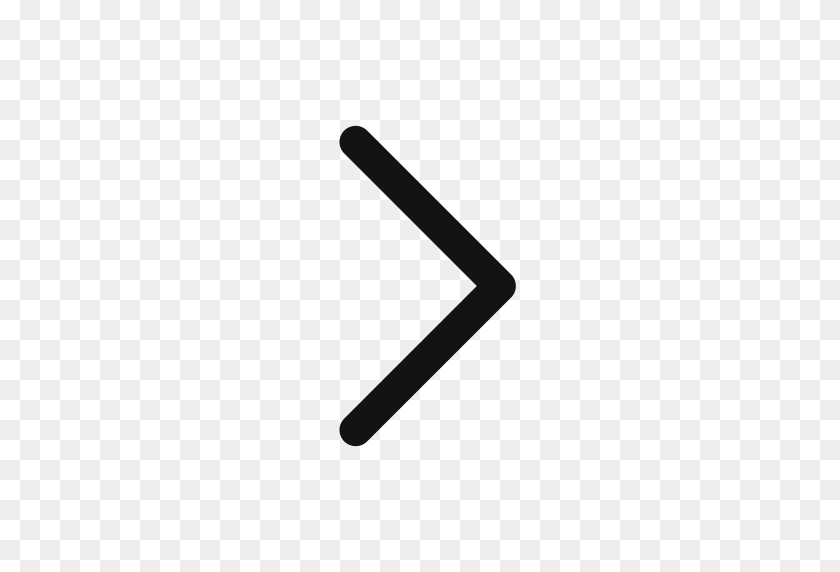
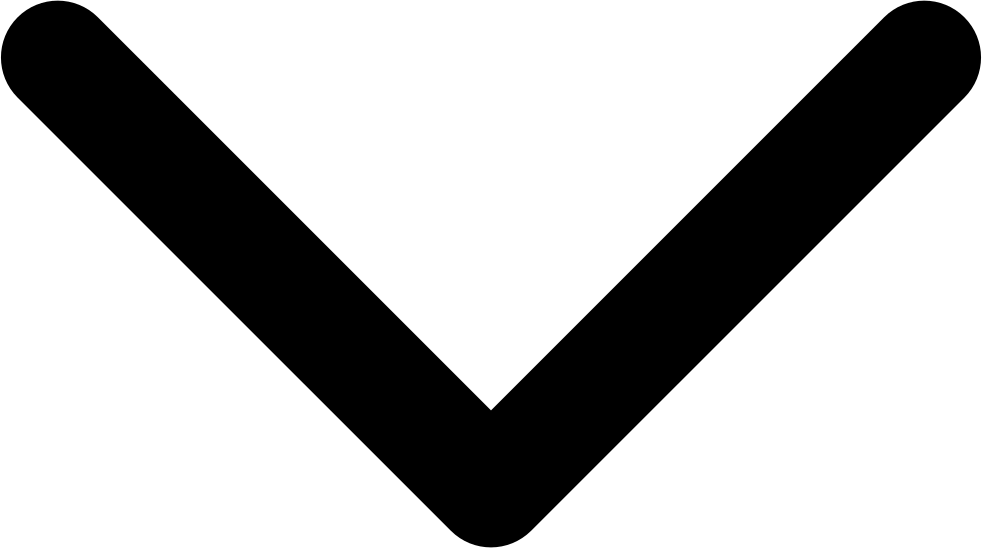
adding more and more features

diff --git a/stkOverflow/src/components/root/Root.tsx b/stkOverflow/src/components/root/Root.tsx
@@ -1,6 +1,6 @@
 import debounce from 'lodash/debounce';
 import React, { ReactElement, useEffect, useMemo, useState } from 'react';
-import { View, StyleSheet } from 'react-native';
+import { View, StyleSheet, Text } from 'react-native';
 import { DEBOUNCE_DELAY } from '../../config/const';
 import { StkColors } from '../../config/stkColors';
 import { getUserInfo } from '../../services/logic';
@@ -9,10 +9,11 @@ import { Footer } from '../footer/Footer';
 import { Header } from '../header/Header';
 import { PostsList } from '../postsList/PostsList';
 import { UserSummary } from '../userSummary/UserSummary';
+import en from '../../assets/locales/en.json';
 
 export const RootScreen = (): ReactElement => {
   const [loading, setLoading] = useState(false);
-  const [posts, setPosts] = useState<any>(); // avraham fix types
+  const [posts, setPosts] = useState<Record<string, unknown>[]>();
 
   // Stop the invocation of the debounced function after component unmounting
   useEffect(() => {
@@ -52,7 +53,11 @@ export const RootScreen = (): ReactElement => {
           <InputField onTextChanged={debouncedChangeHandler} editable={!loading} />
         </View>
         <View style={styles.listWrapper}>
-          {isListAvailable ? <UserSummary name={display_name} reputation={reputation} acceptRate={accept_rate} avatar={profile_image} /> : null}
+          {isListAvailable ? (
+            <UserSummary name={display_name} reputation={reputation} acceptRate={accept_rate} avatar={profile_image} />
+          ) : (
+            <Text style={[styles.noUserText, { color: StkColors().black }]}>{en.labels.noUser}</Text>
+          )}
           <PostsList posts={posts} />
         </View>
       </View>
@@ -70,7 +75,6 @@ const styles = StyleSheet.create({
     height: '100%',
     marginTop: 12,
     paddingHorizontal: 12,
-    borderWidth: 1,
     justifyContent: 'space-between',
   },
   top: {
@@ -94,5 +98,9 @@ const styles = StyleSheet.create({
   },
   footerWrapper: {
     paddingBottom: 32,
+  },
+  noUserText: {
+    fontSize: 18,
+    textAlign: 'center',
   },
 });

diff --git a/stkOverflow/src/components/postItem/PostItem.tsx b/stkOverflow/src/components/postItem/PostItem.tsx
@@ -1,22 +1,27 @@
 import React, { ReactElement } from 'react';
 import { Image, StyleSheet, Text, View, TouchableOpacity } from 'react-native';
 import { StkColors } from '../../config/stkColors';
+import { getHtmlContent } from '../../services/logic';
 
 export interface PostItemProps {
   title: string;
   url: string;
+  score: number;
   openModal: (url: string) => void;
 }
 
-export const PostItem = ({ title, url, openModal }: PostItemProps): ReactElement => {
+export const PostItem = ({ title, url, openModal, score }: PostItemProps): ReactElement => {
   return (
     <TouchableOpacity style={styles.container} onPress={() => openModal(url)}>
       <View style={styles.titleWrapper}>
         <Text numberOfLines={1} style={[styles.postText, { color: StkColors().black }]}>
-          {title}
+          {getHtmlContent(title)}
+        </Text>
+        <Text numberOfLines={1} style={[styles.postTextSubtitle, { color: StkColors().gray }]}>
+          score: {score}
         </Text>
       </View>
-      <Image style={styles.image} resizeMode={'stretch'} source={require('../../assets/png/chevron.png')} />
+      <Image style={styles.image} source={require('../../assets/png/chevron.png')} />
     </TouchableOpacity>
   );
 };
@@ -32,9 +37,12 @@ const styles = StyleSheet.create({
     flex: 0.8,
   },
   postText: {},
+  postTextSubtitle: {
+    fontSize: 12,
+  },
   image: {
-    width: 24,
-    height: 24,
-    transform: [{ rotate: '0deg' }],
+    width: 18,
+    height: 10,
+    transform: [{ rotate: '-90deg' }],
   },
 });

diff --git a/stkOverflow/src/components/postsList/PostsList.tsx b/stkOverflow/src/components/postsList/PostsList.tsx
@@ -20,16 +20,18 @@ export const PostsList = ({ posts }: PostsListProps): ReactElement => {
     setVisible(true);
   };
 
+  const separator = (): ReactElement => <View style={[styles.separator, { borderBottomColor: StkColors().lightgray }]} />;
   return (
     <>
       <FlatList
         data={posts?.slice(0, 15)}
-        renderItem={(post: Record<string, any>) => <PostItem title={post?.item?.title} url={post?.item?.link} openModal={openModal} />}
+        renderItem={(post: Record<string, any>) => <PostItem title={post?.item?.title} score={post?.item?.score} url={post?.item?.link} openModal={openModal} />}
         keyExtractor={(item, index) => `${item?.accepted_answer_id}-${index}`}
-        ItemSeparatorComponent={() => <View style={[styles.separator, { borderBottomColor: StkColors().lightgray }]} />}
+        ItemSeparatorComponent={separator}
+        ListFooterComponent={separator}
       />
       <Modal visible={visible}>
-        <SafeAreaView style={styles.modalContent}>
+        <SafeAreaView style={[styles.modalContent, { backgroundColor: StkColors().white }]}>
           <View style={styles.closeWrapper}>
             <CloseButton onClose={() => setVisible(false)} />
           </View>

diff --git a/stkOverflow/src/components/userSummary/UserSummary.tsx b/stkOverflow/src/components/userSummary/UserSummary.tsx
@@ -17,8 +17,8 @@ export const UserSummary = ({ name, reputation, acceptRate, avatar }: UserSummar
         <Image style={[styles.avatar, { borderColor: StkColors().black }]} source={{ uri: avatar }} />
         <View style={styles.userDetails}>
           <Text style={[styles.text, { color: StkColors().black }]}>{name}</Text>
-          <Text style={[styles.text, { color: StkColors().black }]}>{reputation}</Text>
-          <Text style={[styles.text, { color: StkColors().black }]}>{acceptRate}</Text>
+          <Text style={[styles.text, { color: StkColors().black }]}>Reputation - {reputation}</Text>
+          {acceptRate && <Text style={[styles.text, { color: StkColors().black }]}>Accept Rate - {acceptRate}</Text>}
         </View>
       </View>
       <View style={styles.filter}>
@@ -63,7 +63,7 @@ const styles = StyleSheet.create({
     paddingBottom: 8,
   },
   userDetails: {
-    flex: 0.5,
+    flex: 0.6,
     borderWidth: 1,
     justifyContent: 'space-between',
     paddingLeft: 16,

diff --git a/stkOverflow/src/components/common/InputField.tsx b/stkOverflow/src/components/common/InputField.tsx
@@ -29,12 +29,12 @@ export const InputField = ({ onTextChanged, editable }: InputFieldProps): ReactE
           value={text}
         />
         <TouchableOpacity
-          style={styles.closeButtonParent}
+          style={styles.resetButtonParent}
           onPress={() => {
             setText('');
             onTextChanged('');
           }}>
-          <Image style={styles.closeButton} source={require('../../assets/png/close.png')} />
+          <Image style={[styles.resetButton, { backgroundColor: StkColors().white }]} source={require('../../assets/png/close.png')} />
         </TouchableOpacity>
       </View>
       {!editable ? (
@@ -61,12 +61,12 @@ const styles = StyleSheet.create({
     borderRadius: 5,
     paddingLeft: 12,
   },
-  closeButtonParent: {
+  resetButtonParent: {
     justifyContent: 'center',
     alignItems: 'center',
     paddingRight: 12,
   },
-  closeButton: {
+  resetButton: {
     height: 20,
     width: 20,
   },

diff --git a/stkOverflow/src/services/logic.ts b/stkOverflow/src/services/logic.ts
@@ -1,3 +1,4 @@
+import { decode } from 'html-entities';
 import { apiRoutes } from '../config/apiRoutes';
 import { fetchData } from './network';
 
@@ -15,3 +16,8 @@ export const getUserInfo = async (uid: string, params?: Record<string, string>):
 };
 
 export const buildUrl = (uid: string, params?: Record<string, string>): string => `${apiRoutes.STK_OVERFLOW.PROFILE}/${uid}/questions?order=desc&sort=activity&site=stackoverflow`;
+
+export const getHtmlContent = (htmlEncocedContent: string): string => {
+  console.log(decode(htmlEncocedContent));
+  return decode(htmlEncocedContent);
+};

diff --git a/stkOverflow/index.js b/stkOverflow/index.js
@@ -1,7 +1,6 @@
 /**
  * @format
  */
-import 'react-native-gesture-handler';
 import { AppRegistry } from 'react-native';
 import App from './App';
 import { name as appName } from './app.json';

diff --git a/README.md b/README.md
@@ -11,12 +11,23 @@ In ordefr to run the demo please run the comamnds:
 5. pod install
 6. run Xcode and open ios folder, then press play button, it will take a few minutes and will launch the applucation
 
-List of features to implement:
 
+Keys feature:
+1. light/dark mode
+2. http fetching
+3. text inout field with debounce (300ms)
+4. reset search field
+5. opening http content in modal
+6. display smootly html encoded characters
+7. labels string in external json file (allow to adapt easily i18n)
+8. UT examples
+
+
+
+List of features to implement:
 1. android support
 2. client side filter
 3. add state management
-4. add stronger theme color management
 5. accessibility
 6. e2e tests
    UT
